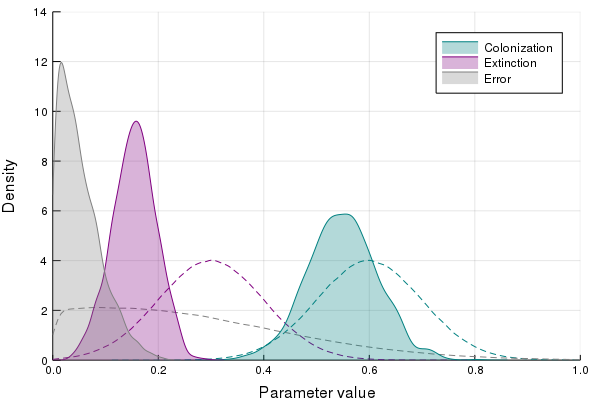
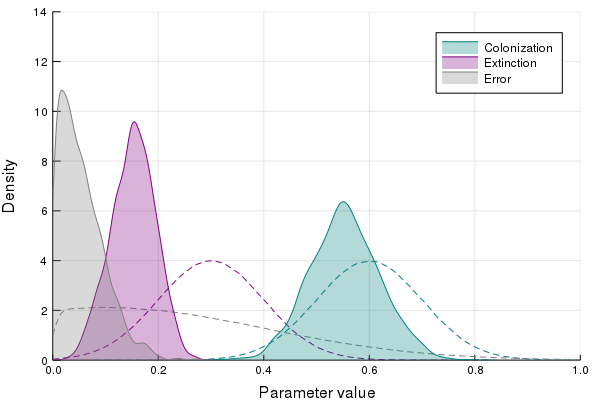
:art: table

diff --git a/themes/shebang/static/css/index.css b/themes/shebang/static/css/index.css
@@ -240,10 +240,12 @@ table {
   width: 100%; }
   table thead {
     color: var(--color-bg);
-    background-color: var(--color-fg); }
+    background-color: var(--color-dark); }
   table th, table td {
     padding: 0.3em; }
-  table tbody tr:nth-child(odd) {
-    background-color: var(--color-lightest); }
+  table tbody tr {
+    border-bottom: 1px solid var(--color-lighter); }
+    table tbody tr:nth-child(odd) {
+      background-color: var(--color-lightest); }
 
 /*# sourceMappingURL=index.css.map */

diff --git a/themes/shebang/static/css/index.scss b/themes/shebang/static/css/index.scss
@@ -121,7 +121,7 @@ table {
   width: 100%;
   thead {
     color: var(--color-bg);
-    background-color: var(--color-fg);
+    background-color: var(--color-dark);
   }
   th, td {
     padding: 0.3em;
@@ -131,6 +131,7 @@ table {
       &:nth-child(odd) {
         background-color: var(--color-lightest);
       }
+      border-bottom: 1px solid var(--color-lighter);
     }
   }
 }

diff --git a/content/capstones/abc.md b/content/capstones/abc.md
@@ -38,14 +38,14 @@ present or absent. This results in a timeseries, like this:
 
 ````
 Year 1	present
-Year 2	absent
+Year 2	present
 Year 3	absent
-Year 4	present
+Year 4	absent
 Year 5	present
-Year 6	present
-Year 7	present
-Year 8	present
-Year 9	present
+Year 6	absent
+Year 7	absent
+Year 8	absent
+Year 9	absent
 Year 10	absent
 ````
 
@@ -148,8 +148,8 @@ summary(island(0.2, 0.6, 0.1))
 
 ````
 2-element Array{Float64,1}:
- 0.69              
- 0.4020100502512563
+ 0.725              
+ 0.32663316582914576
 ````
 
 
@@ -287,8 +287,8 @@ yaxis!("Density", (0, 14))
 
 To summarize, we can now extract the values of the different parameters:
 
-|     | meaning                | mean                                     | standard deviation                      |
-|:----|:-----------------------|:-----------------------------------------|:----------------------------------------|
-| $c$ | Colonization rate      | 0.549 | 0.066 |
-| $e$ | Extinction rate        | 0.154 | 0.041 |
-| $m$ | Measurement error rate | 0.051 | 0.04 |
+|     | meaning                |                                     mean |                      standard deviation |
+|:---:|:-----------------------|-----------------------------------------:|----------------------------------------:|
+| $c$ | Colonization rate      | 0.553 | 0.066 |
+| $e$ | Extinction rate        | 0.152 | 0.042 |
+| $m$ | Measurement error rate | 0.054 | 0.042 |
